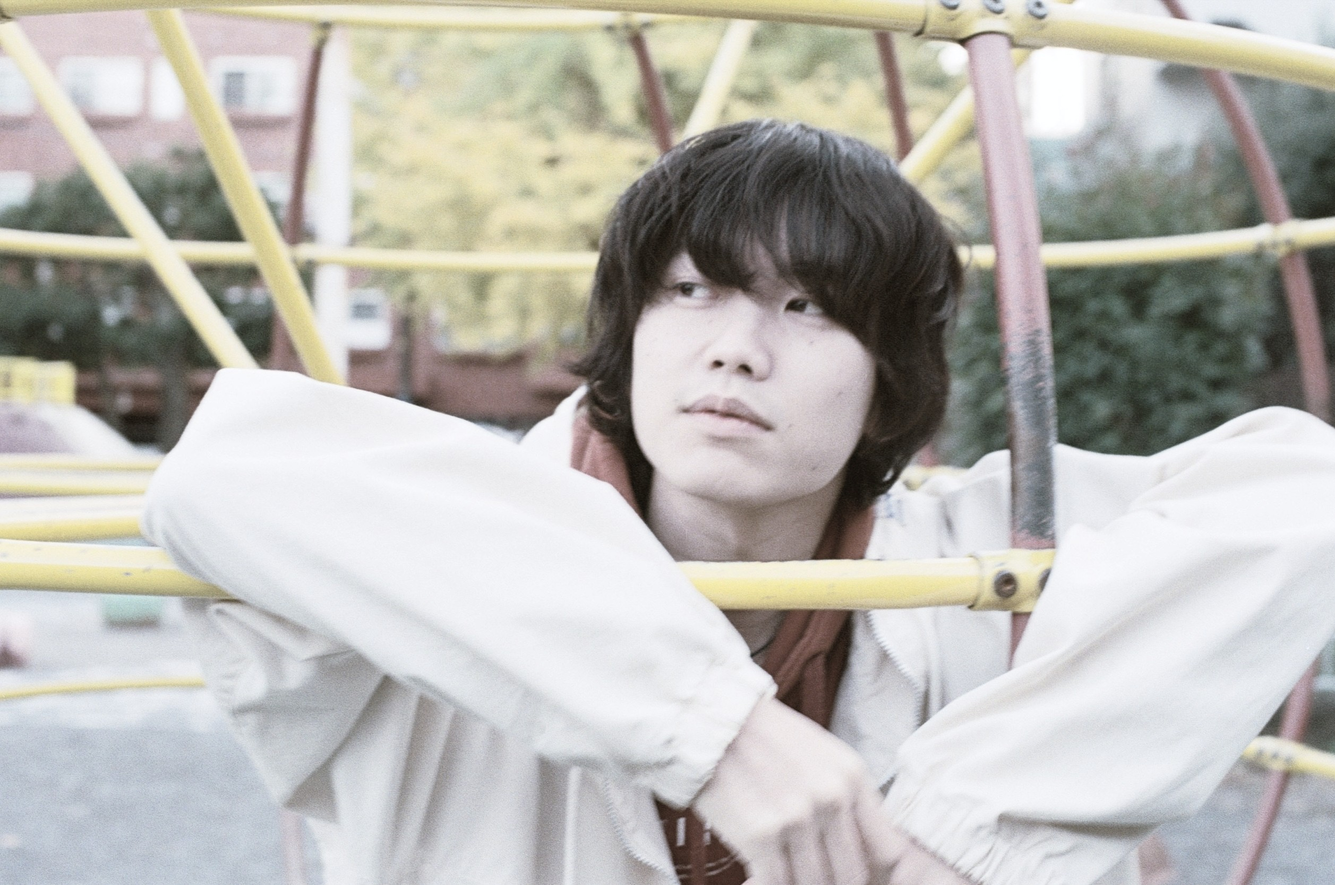
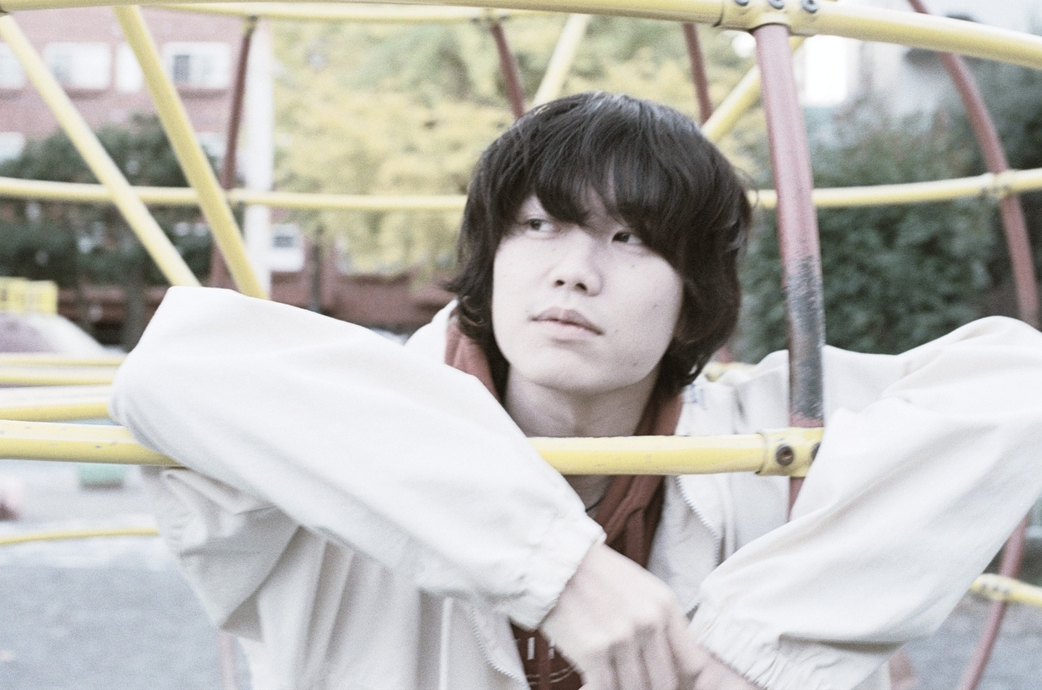
lens公開＆アー写更新

diff --git a/index.html b/index.html
@@ -63,12 +63,12 @@
               </div>
               <div class="news-body">
                 <p class="news-title">1st.Single "lens"</p>
-                <p class="news-price">¥0 digital only</p>
+                <p class="news-price">digital only</p>
               </div>
-              <!-- <div class="news-footer">
-                <a href="https://soundcloud.com/itsu-654374168/lens-2?utm_source=clipboard&utm_medium=text&utm_campaign=social_sharing"
+              <div class="news-footer">
+                <a href="https://linkco.re/T3syGHG3"
                   class="application-link" target="_blank">▷listen to...</a>
-              </div> -->
+              </div>
             </div>
           </article>
         </div>

diff --git a/profile/index.html b/profile/index.html
@@ -33,7 +33,7 @@
   <main>
     <section class="profile">
       <div class="container">
-        <img src="../assets/images/artist.JPG" alt="Artist Photo" class="artist-photo">
+        <img src="../assets/images/artist3.JPG" alt="Artist Photo" class="artist-photo">
         <h2 class="section-title">Profile</h2>
         <p>
           松本一樹 -itsukimatsumoto-<br>
